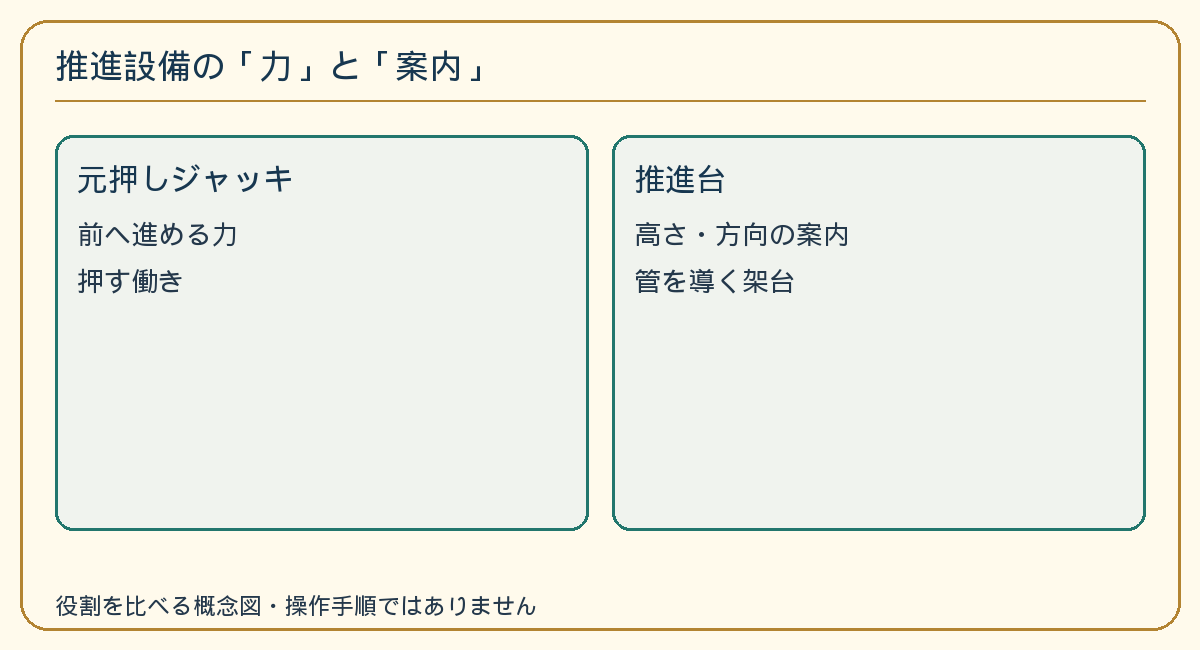
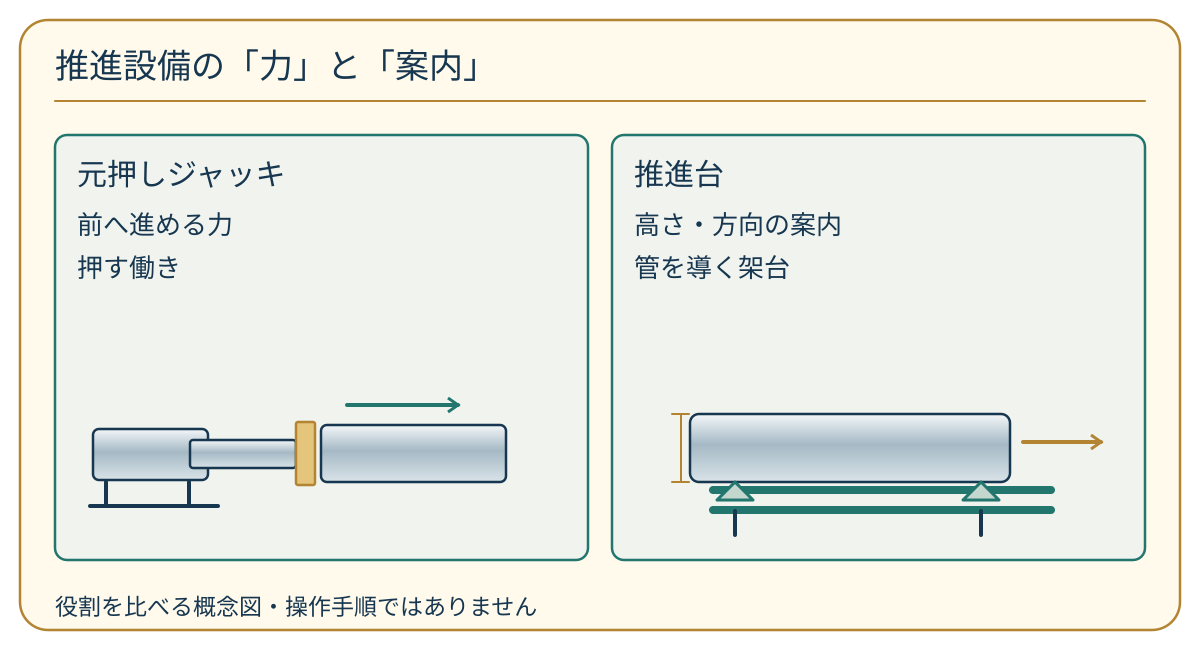
fix(kensetsu): illustrate civil machine material flows and marine roles

diff --git a/scripts/kensetsu-authoring/draw-royal-differential-groupC01.py b/scripts/kensetsu-authoring/draw-royal-differential-groupC01.py
@@ -1,0 +1,52 @@
+"""Independent controlled role diagrams; no operating sequence or design dimensions.
+Retains original Japanese card text. Geometry links material, force and measurement.
+"""
+from pathlib import Path
+import ast,subprocess,html
+R=Path(__file__).resolve().parents[2];O=R/'docs/ssw-workspace/kensetsu/royal-differential-20261107/groupC01';A=R/'assets/kensetsu/differential';O.mkdir(parents=True,exist_ok=True);A.mkdir(parents=True,exist_ok=True)
+N='#173750';T='#22766D';G='#B38432'
+def text(x,y,s,size=26):return f'<text x="{x}" y="{y}" font-size="{size}">{html.escape(s)}</text>'
+def rect(x,y,w,h,fill='#F0F3EE',stroke=T,r=12):return f'<rect x="{x}" y="{y}" width="{w}" height="{h}" rx="{r}" fill="{fill}" stroke="{stroke}" stroke-width="2.5"/>'
+def line(x,y,u,v,c=N,w=3):return f'<path d="M{x} {y} L{u} {v}" fill="none" stroke="{c}" stroke-width="{w}" stroke-linecap="round"/>'
+def path(d,fill='none',c=N,w=3):return f'<path d="{d}" fill="{fill}" stroke="{c}" stroke-width="{w}" stroke-linejoin="round"/>'
+def arrow(x,y,u,v,c=T):return line(x,y,u,v,c,4)+f'<path d="M{u-10} {v-7} L{u} {v} L{u-10} {v+7}" fill="none" stroke="{c}" stroke-width="3"/>'
+def soil(x,y,w,h):
+ b=rect(x,y,w,h,'#DCC699',G,3)
+ for yy in range(y+7,y+h-3,11):
+  for xx in range(x+8,x+w-3,15):b+=f'<circle cx="{xx+(yy%3)}" cy="{yy}" r="1.6" fill="#A08552"/>'
+ return b
+spec={}
+for node in ast.walk(ast.parse((R/'scripts/kensetsu-authoring/draw-differential-diagrams.py').read_text())):
+ if isinstance(node,ast.Call) and isinstance(node.func,ast.Name) and node.func.id=='save' and isinstance(node.args[0],ast.Constant) and node.args[0].value in ['c3','c5','c6']:spec[node.args[0].value]=(ast.literal_eval(node.args[1]),ast.literal_eval(node.args[2]))
+def save(key,b):
+ title,groups=spec[key];w=(1090-(len(groups)-1)*24)//len(groups)
+ s='<svg xmlns="http://www.w3.org/2000/svg" width="1200" height="650" viewBox="0 0 1200 650"><defs><linearGradient id="metal" x2="0" y2="1"><stop stop-color="#F4F7F9"/><stop offset=".45" stop-color="#A5B9C5"/><stop offset="1" stop-color="#D9E3E8"/></linearGradient></defs><g font-family="Noto Sans CJK JP" fill="'+N+'">'+rect(20,20,1160,610,'#FFFAEC',G,28)+text(55,78,title,34)+line(55,101,1145,101,G,2)
+ for i,(heading,labels) in enumerate(groups):
+  x=55+i*(w+24);s+=rect(x,135,w,425)+text(x+22,185,heading,30)
+  for j,label in enumerate(labels):s+=text(x+22,234+43*j,label,26)
+ s+=b+text(55,615,'役割を比べる概念図・操作手順ではありません',23)+'</g></svg>'
+ p=O/(key+'.svg');p.write_text(s+'\n');subprocess.run(['inkscape',str(p),'--export-type=png',f'--export-filename={A/(key+".png")}'],check=True,stdout=subprocess.DEVNULL,stderr=subprocess.PIPE)
+# Material retained in a bowl, relocation, and the distinct blade/surface relation.
+b=soil(95,452,92,36)+path('M91 426 L102 495 H211 L226 426','url(#metal)')+soil(109,454,95,32)+line(103,499,211,499,G,5)
+b+=arrow(238,464,289,464)+soil(308,454,106,29)+path('M302 450 L324 433 H418 L436 450','url(#metal)')+arrow(444,464,480,464)
+b+=soil(489,479,63,12)+line(489,493,551,493,N,3)
+b+=soil(652,473,424,35)+path('M660 473 Q711 435 760 465 Q820 436 872 458 Q930 435 1002 465','none',G,3)
+b+=path('M783 395 L830 403 L839 476 L799 470 Z','url(#metal)')+line(809,389,809,405,N,5)+arrow(880,421,989,421)+line(652,513,1081,513,N,3)
+save('c3',b)
+# A piston pushes; separate two-rail support carries and guides a pipe sample.
+b=rect(93,429,115,51,'url(#metal)',N,6)+rect(190,440,106,28,'url(#metal)',N,3)+rect(296,422,19,63,'#E5C47C',G,2)+rect(321,425,185,57,'url(#metal)',N,6)+arrow(347,405,458,405)
+b+=line(106,482,106,505,N,4)+line(189,482,189,505,N,4)+line(90,506,218,506,N,4)
+b+=rect(690,414,320,68,'url(#metal)',N,9)+line(713,490,1051,490,T,8)+line(713,510,1051,510,T,8)
+for x in [735,981]:b+=path(f'M{x} 482 L{x-18} 500 L{x+18} 500 Z','#C4D7CF',T,3)+line(x,511,x,535,N,4)
+b+=arrow(1023,442,1101,442,G)+line(681,414,681,482,G,2)+line(672,414,689,414,G,2)+line(672,482,689,482,G,2)
+save('c5',b)
+# Grab removal of sediment; crane vessel/carrier/tug; sonar observes a separate bed.
+b=rect(83,374,289,131,'#E0EEF1','#9DBDC9',5)+soil(83,491,289,28)+line(126,365,126,426,N,3)
+b+=path('M126 425 L100 452 L126 474 L152 452 Z','url(#metal)')+path('M100 452 Q108 484 126 474 Q145 484 152 452','url(#metal)')+soil(117,464,18,11)
+b+=path('M223 480 L235 453 L258 429 L258 382','none',N,14)+path('M223 480 L235 453 L258 429 L258 382','none','#C8DCE5',7)
+b+=path('M454 446 H701 L681 477 H475 Z','url(#metal)')+rect(474,419,44,26,'#E3CF9F',N,3)+path('M542 440 L575 370 L637 420','none',N,5)+line(637,420,637,445,N,2)+rect(620,444,34,21,'#D8C398',G,2)+soil(542,450,91,17)
+b+=path('M459 518 H503 L493 533 H466 Z','#C8DCE5')+line(506,522,572,522,G,2)+path('M576 516 H695 L681 536 H589 Z','#D8C398')
+b+=rect(829,374,281,143,'#E0EEF1','#9DBDC9',5)+path('M882 385 H1056 L1042 405 H895 Z','url(#metal)')+rect(953,399,26,13,'#E3CF9F',G,3)
+b+=path('M965 421 Q943 446 965 472 M977 421 Q999 446 977 472','none',T,3)+path('M833 493 Q879 475 923 493 Q978 514 1035 490 Q1072 478 1107 494','none',G,4)
+save('c6',b)
+print('Wrote c3/c5/c6 controlled diagrams,1200x650; Japanese labels unchanged')
